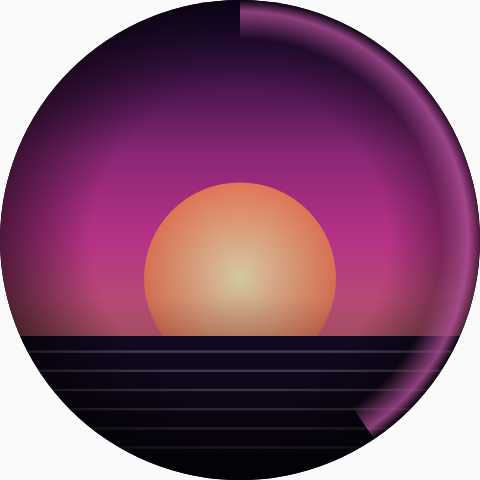
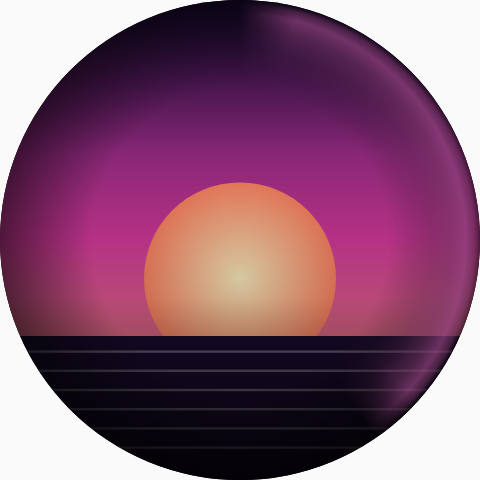
Soften watch light halo and brighten phone players for 1.6.1

diff --git a/core/src/main/java/dev/lelonio/square/playback/AudioHaloPainter.kt b/core/src/main/java/dev/lelonio/square/playback/AudioHaloPainter.kt
@@ -12,26 +12,46 @@ class AudioHaloPainter {
     private var filter: ColorFilter? = null
     private val levels = FloatArray(8)
     private var lastNs = 0L
-    private var ringShader: RadialGradient? = null
+    private var ringShader: Shader? = null
     private var ringTint = 0
     private var ringWidth = -1f
-    /** The gradient spans the band, so neither its inside nor its outside has a hard edge. */
+    private var ringDiameter = -1f
+    private var ringSweep = -1f
+    private var ringGap = -1f
+    private val ringMatrix = Matrix()
+    /** A light field with radial and angular falloff; the arc geometry only bounds its shading. */
     fun drawRing(canvas: Canvas, diameter: Float, progress: Float, gapDegrees: Float, tint: Int, energy: Float, bass: Float) {
         if (diameter <= 0 || progress <= 0) return
         val radius = diameter / 2
-        val width = diameter * (0.045f + 0.045f * bass)
-        if (ringShader == null || ringTint != tint || abs(width - ringWidth) > 0.5f) {
-            ringTint = tint; ringWidth = width
+        val width = diameter * (0.13f + 0.07f * bass.coerceIn(0f, 1f))
+        val sweep = (360 - gapDegrees).coerceIn(0f, 360f) * progress.coerceIn(0f, 1f)
+        if (sweep <= 0f) return
+        if (ringShader == null || ringTint != tint || abs(width - ringWidth) > 1f ||
+            ringDiameter != diameter || abs(sweep - ringSweep) > .35f || ringGap != gapDegrees) {
+            ringTint = tint; ringWidth = width; ringDiameter = diameter; ringSweep = sweep; ringGap = gapDegrees
             val transparent = tint and 0xffffff
-            ringShader = RadialGradient(radius, radius, radius,
-                intArrayOf(transparent, transparent, tint or (0xff shl 24), transparent),
-                floatArrayOf(0f, (1 - width / radius).coerceAtLeast(.01f), 1 - width / radius * .3f, 1f), Shader.TileMode.CLAMP)
+            fun shade(alpha: Int) = transparent or (alpha shl 24)
+            val inner = 1 - width / radius
+            val radial = RadialGradient(radius, radius, radius,
+                intArrayOf(transparent, transparent, shade(12), shade(45), shade(105), shade(170), shade(100), transparent),
+                floatArrayOf(0f, inner, inner + .22f * (1 - inner), inner + .45f * (1 - inner),
+                    inner + .68f * (1 - inner), inner + .84f * (1 - inner), inner + .94f * (1 - inner), 1f), Shader.TileMode.CLAMP)
+            // Keep the time endpoint exact, but let light dissolve before it instead of ending in a cut.
+            val end = (sweep / 360f).coerceAtMost(.9999f)
+            val feather = min(14f / 360f, end * .45f)
+            val angular = SweepGradient(radius, radius,
+                intArrayOf(0x00ffffff, -1, -1, 0x00ffffff, 0x00ffffff),
+                floatArrayOf(0f, feather, end - feather, end, 1f))
+            ringMatrix.setRotate(-90 + gapDegrees / 2, radius, radius)
+            angular.setLocalMatrix(ringMatrix)
+            ringShader = ComposeShader(radial, angular, PorterDuff.Mode.DST_IN)
         }
-        paint.shader = ringShader; paint.alpha = (100 + 130 * energy).toInt().coerceIn(0, 255)
+        paint.shader = ringShader; paint.alpha = (120 + 135 * energy).toInt().coerceIn(0, 255)
+        // Skip the transparent centre and unused arc. Both edges of this geometry have zero
+        // shader alpha, so this does not introduce an outline or a cut at either endpoint.
         paint.style = Paint.Style.STROKE; paint.strokeWidth = width
-        // Outer edge remains on the bezel; modulation only spreads inward.
         oval.set(width / 2, width / 2, diameter - width / 2, diameter - width / 2)
-        canvas.drawArc(oval, -90 + gapDegrees / 2, (360 - gapDegrees) * progress, false, paint)
+        canvas.drawArc(oval, -90 + gapDegrees / 2, sweep, false, paint)
         paint.style = Paint.Style.FILL
     }
     fun reset() { levels.fill(0f); lastNs = 0 }
@@ -42,7 +62,12 @@ class AudioHaloPainter {
         lastNs = nowNs
         if (filter == null || tint != color) {
             color = tint
-            filter = PorterDuffColorFilter(tint or (0xff shl 24), PorterDuff.Mode.SRC_IN)
+            // Dark artwork colours need emitted-light luminance to remain visible behind glass.
+            val hsv = FloatArray(3)
+            Color.colorToHSV(tint, hsv)
+            hsv[1] = hsv[1].coerceAtMost(.72f)
+            hsv[2] = hsv[2].coerceAtLeast(.88f)
+            filter = PorterDuffColorFilter(Color.HSVToColor(hsv), PorterDuff.Mode.SRC_IN)
         }
         val time = (frame?.positionMs ?: 0) / 1000f
         for (i in 0..7) {
@@ -57,13 +82,13 @@ class AudioHaloPainter {
                 val along = if (i % 2 == 0) 0.28f else 0.72f
                 x = when (i / 2) { 0 -> cover.left + cover.width() * along; 1 -> cover.right; 2 -> cover.left + cover.width() * along; else -> cover.left }
                 y = when (i / 2) { 0 -> cover.top; 1 -> cover.top + cover.height() * along; 2 -> cover.bottom; else -> cover.top + cover.height() * along }
-                radiusX = cover.width() * (0.16f + 0.24f * v + 0.12f * bass)
+                radiusX = cover.width() * (0.20f + 0.28f * v + 0.13f * bass)
                 radiusY = radiusX
             } else {
                 x = width * (i + 0.5f) / 8 + if (mini) 0f else sin(time * 1.2f + i) * width * 0.025f * v
-                y = height * if (mini) 1.04f else 1.02f
+                y = height * if (mini) .98f else 1.02f
                 radiusX = width * if (mini) 0.20f else 0.23f + 0.04f * bass
-                radiusY = height * if (mini) (if (compact) .68f else .90f) * (.55f + .60f * v) else 0.18f + 0.24f * v + 0.12f * bass
+                radiusY = height * if (mini) (if (compact) .82f else 1.15f) * (.60f + .65f * v) else 0.18f + 0.24f * v + 0.12f * bass
             }
             if (cover != null && bottomMix > 0f) {
                 x += (width * (i + .5f) / 8 - x) * bottomMix
@@ -73,8 +98,8 @@ class AudioHaloPainter {
             }
             val haloPaint = haloPaints[i]
             haloPaint.colorFilter = filter
-            haloPaint.alpha = (if (mini) (if (compact) .36f else .48f) * sqrt(v.coerceAtLeast(0f)) * 255
-                else .46f * v * 255).toInt().coerceIn(0, 130)
+            haloPaint.alpha = ((if (mini) (if (compact) .80f else 1.05f) else .90f) * sqrt(v.coerceAtLeast(0f)) * 255)
+                .toInt().coerceIn(0, 245)
             oval.set(x - radiusX, y - radiusY, x + radiusX, y + radiusY)
             canvas.drawBitmap(haloTexture, null, oval, haloPaint)
         }

diff --git a/app/src/test/java/dev/lelonio/square/screenshots/AudioLightScreenshots.kt b/app/src/test/java/dev/lelonio/square/screenshots/AudioLightScreenshots.kt
@@ -85,7 +85,7 @@ class AudioLightScreenshots {
             compose.onRoot().captureRoboImage(offFile)
             val off = BitmapFactory.decodeFile(offFile).getPixel(x, y)
             Assert.assertTrue("The mini player must actually show and remove its light",
-                kotlin.math.abs(android.graphics.Color.red(lit) - android.graphics.Color.red(off)) > 5)
+                kotlin.math.abs(android.graphics.Color.red(lit) - android.graphics.Color.red(off)) > 20)
         }
     }
     @Test fun phoneDark()=capture("phone_dark")

diff --git a/docs/audio-light-validation.md b/docs/audio-light-validation.md
@@ -34,3 +34,13 @@ APK di release firmato installato nell'emulatore temporaneo Wear OS 6: risoluzio
 La checklist 1.6.0 in `wear-qa-checklist.md` conserva le prove da fare su telefono/tablet e Galaxy Watch collegati: sincronizzazione reale con Spotify/file/video, transizione Canvas, pausa/buffering, prestazioni CPU/GPU, consumi, traffico Bluetooth e assenza di traffico dopo AOD/background. Nessun dispositivo fisico è disponibile via ADB in questa sessione. La risoluzione di un intent sull'emulatore non equivale a toccare la Now bar Samsung.
 
 Fluid Engine resta alla versione 2.11.0; nessuna modifica al submodule.
+
+## Correzione visiva 1.6.1
+
+In seguito alla prova dell'utente, l'arco Watch non è più un contorno luminoso stretto: un campo luminoso combina dissolvenza radiale e angolare, così anche le estremità sfumano. La diffusione verso l'interno è più ampia; il varco dell'ora resta vuoto e la dissolvenza finale termina nella posizione del brano. Shader e geometria sono riutilizzati; il disegno resta confinato alla parte utile dell'arco, evitando di elaborare il centro trasparente o la parte non raggiunta. Nessun blur, analisi o traffico aggiuntivo.
+
+Sul telefono il colore della copertina viene trasformato in luce conservandone la tonalità ma alzandone la luminanza minima. Maggiore espansione e intensità nel lettore, maggiore altezza e intensità nel mini player dietro il vetro; la variante compatta resta attenuata. Nessuna modifica alle preferenze del vetro.
+
+Aggiornati e controllati i 17 render, inclusi tema chiaro/scuro, Canvas, mini player compatto e Watch 192/216/240 dp. Il controllo di visibilità del mini player richiede ora una differenza superiore a 20 nel canale rosso tra segnale presente e assente, rispetto alla soglia di 5 della 1.6.0. La resa animata e i consumi sui dispositivi fisici restano da verificare; i render statici non dimostrano questi risultati.
+
+Il benchmark host aggiornato misura circa 19,36 ms CPU per disegno telefono, 5,91 ms mini player e 1,02 ms anello Watch. Il primo prototipo Watch che disegnava l'intero disco misurava 4,47 ms: confinare la stessa luce alla geometria utile elimina gran parte di quel lavoro. L'analisi resta circa 0,25 ms FFT / 0,016 ms leggera. Dati JBR/Robolectric con Canvas software, non GPU Android né misure di consumo sul Watch; il disegno più ampio richiede comunque la verifica fisica.

diff --git a/docs/wear-qa-checklist.md b/docs/wear-qa-checklist.md
@@ -184,3 +184,9 @@ nessuna di queste prove viene dichiarata superata soltanto perché compila.
 - [ ] Musica su PC o altro dispositivo Connect: aspetto precedente, nessuna pulsazione simulata. Telefono/Watch con versioni precedenti: controlli normali senza telemetry incompatibile.
 - [ ] Sessioni comparabili con effetti accesi/spenti: Perfetto/gfxinfo e CPU su telefono/tablet e Watch; batteria e Bluetooth sul Galaxy Watch. Registrare durata, schermi, luminosità, brano e condizioni radio; non dedurre consumi dai benchmark JVM.
 - [ ] **Now bar Samsung ancora da verificare:** con 1.6.0 su entrambi e modalità Automatica, una sola voce; il tocco deve aprire Fluidify a processo chiuso e dalla Coda/Altro. Confermare controllo del telefono, nessuna seconda sessione media e nessun passaggio involontario al motore Watch.
+
+### Correzione visiva 1.6.1 — prove fisiche da completare
+
+- [ ] Watch lettore e copertina immersiva: alone soffuso senza fascia netta o estremità tagliate, anche con bassi forti; ora e controlli sempre leggibili.
+- [ ] Telefono lettore e mini player: luce chiaramente percepibile mentre cambia con la musica, con copertine scure/chiare, Canvas e diverse preferenze del vetro; nessuna pulsazione durante il silenzio.
+- [ ] Confrontare frame time e consumi con 1.6.0 ed effetti disattivati: i benchmark sul PC non sostituiscono queste misure.
